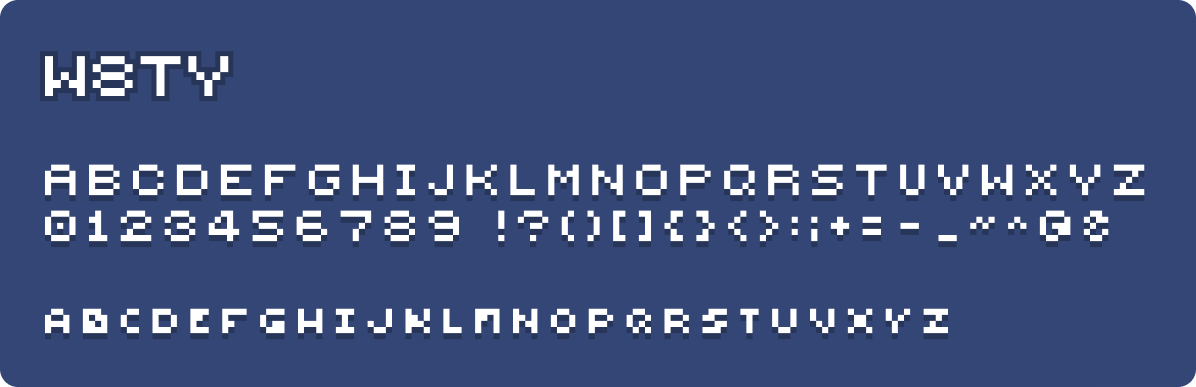
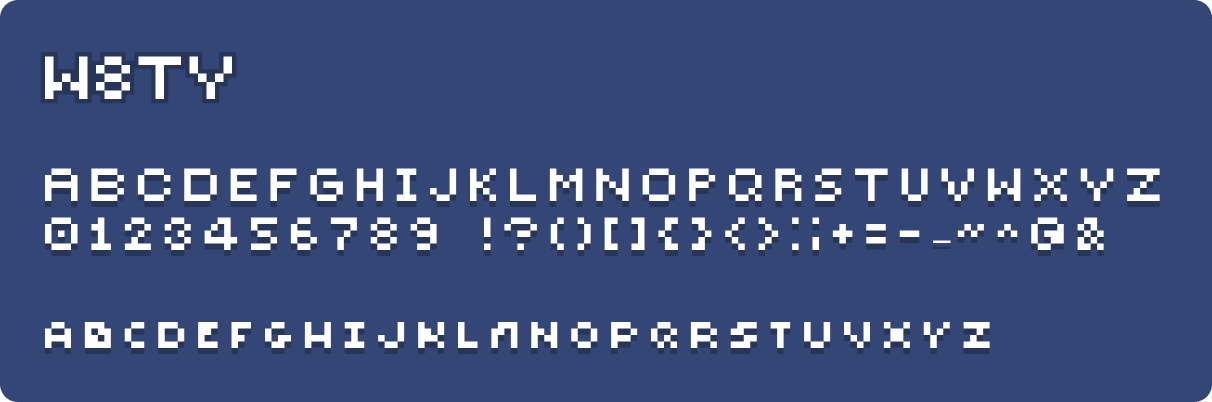
v2, i guess

Changed region(s): [[0.0309, 0.4031, 0.959, 0.6512], [0.0309, 0.7752, 0.8353, 0.8992], [0.0309, 0.124, 0.1856, 0.2481]]

diff --git a/README.md b/README.md
@@ -1,6 +1,9 @@
-# W8ty
+# w8ty
 
-A W.I.P simple retro styled font. Inspired by Minecraft Dungeons and retro games.
+---
+
+A simple pixel font. Inspired by Minecraft Dungeons and retro games.  
+Made using [PixelFont](https://yal.cc/r/20/pixelfont/).
 
 Check out **some** characters:
 
